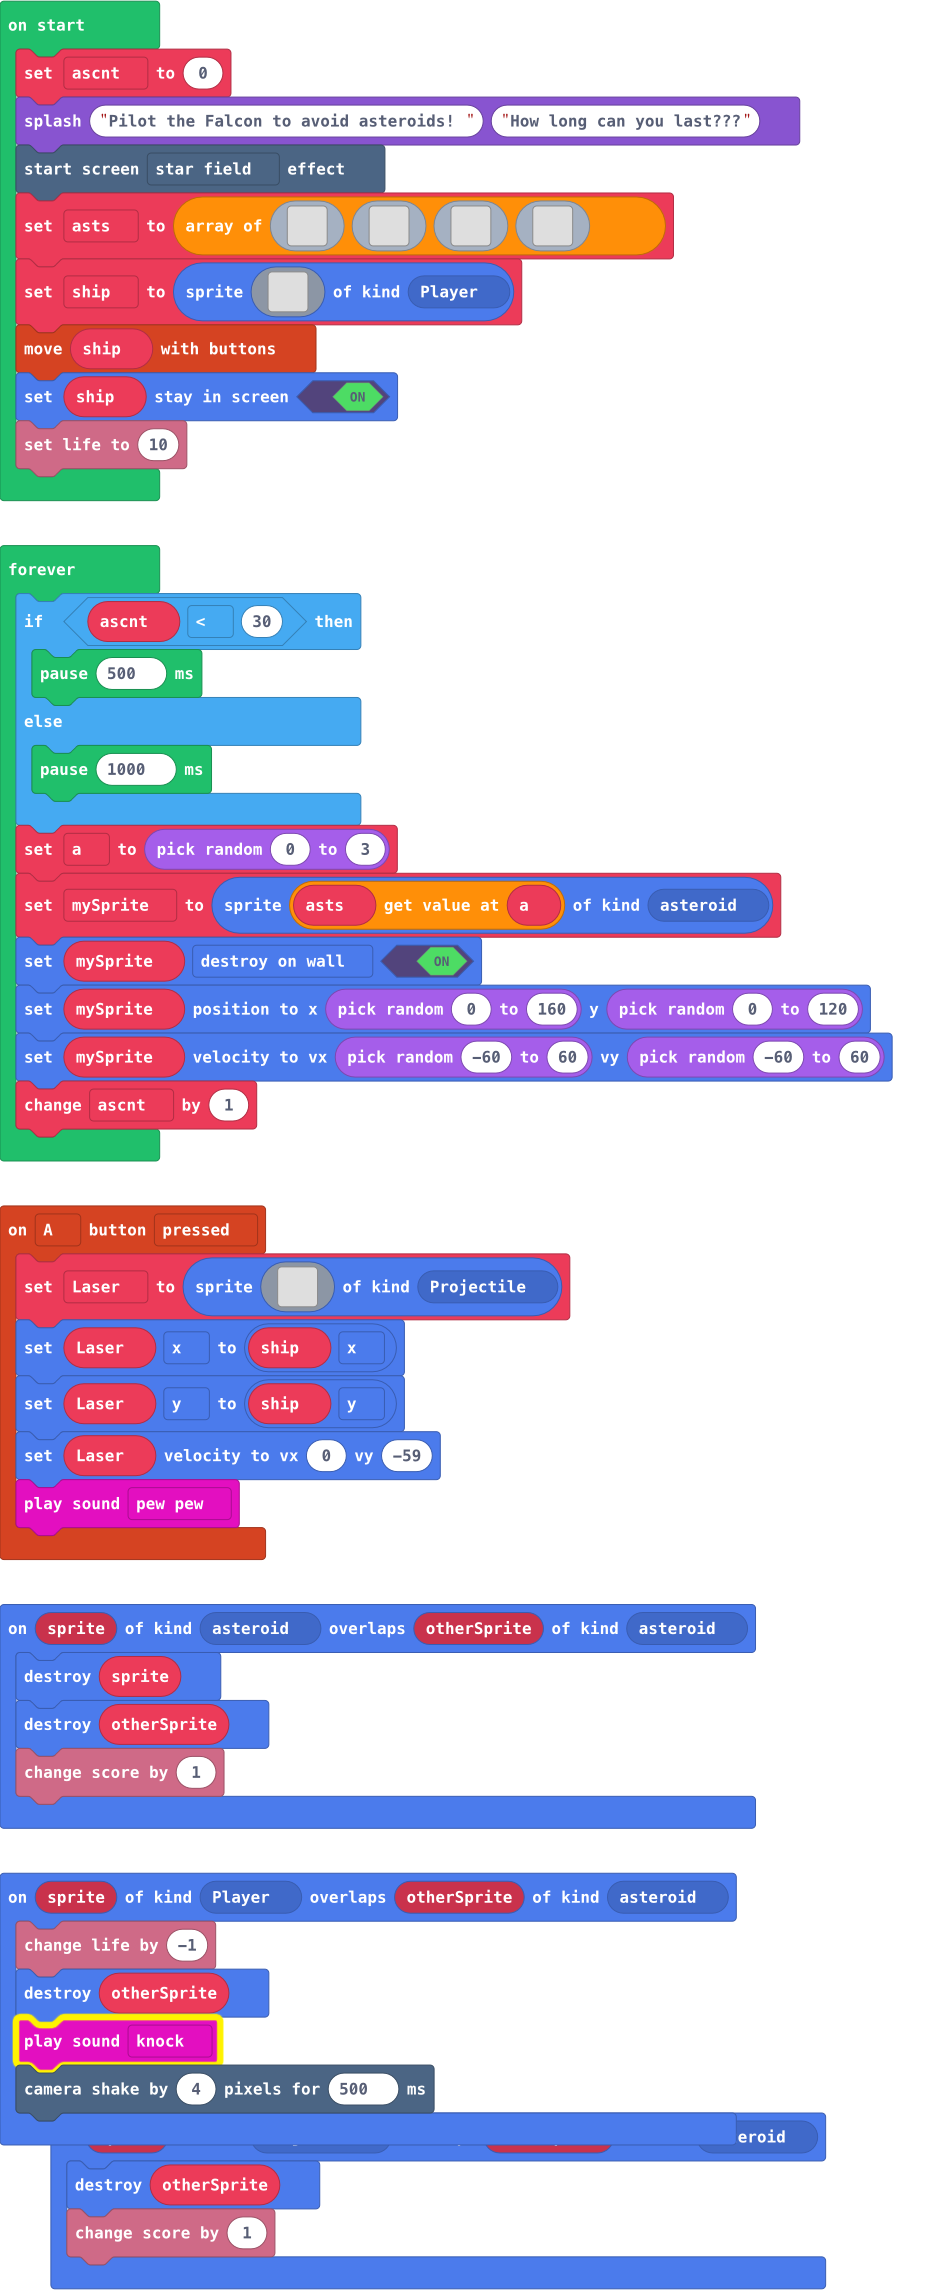
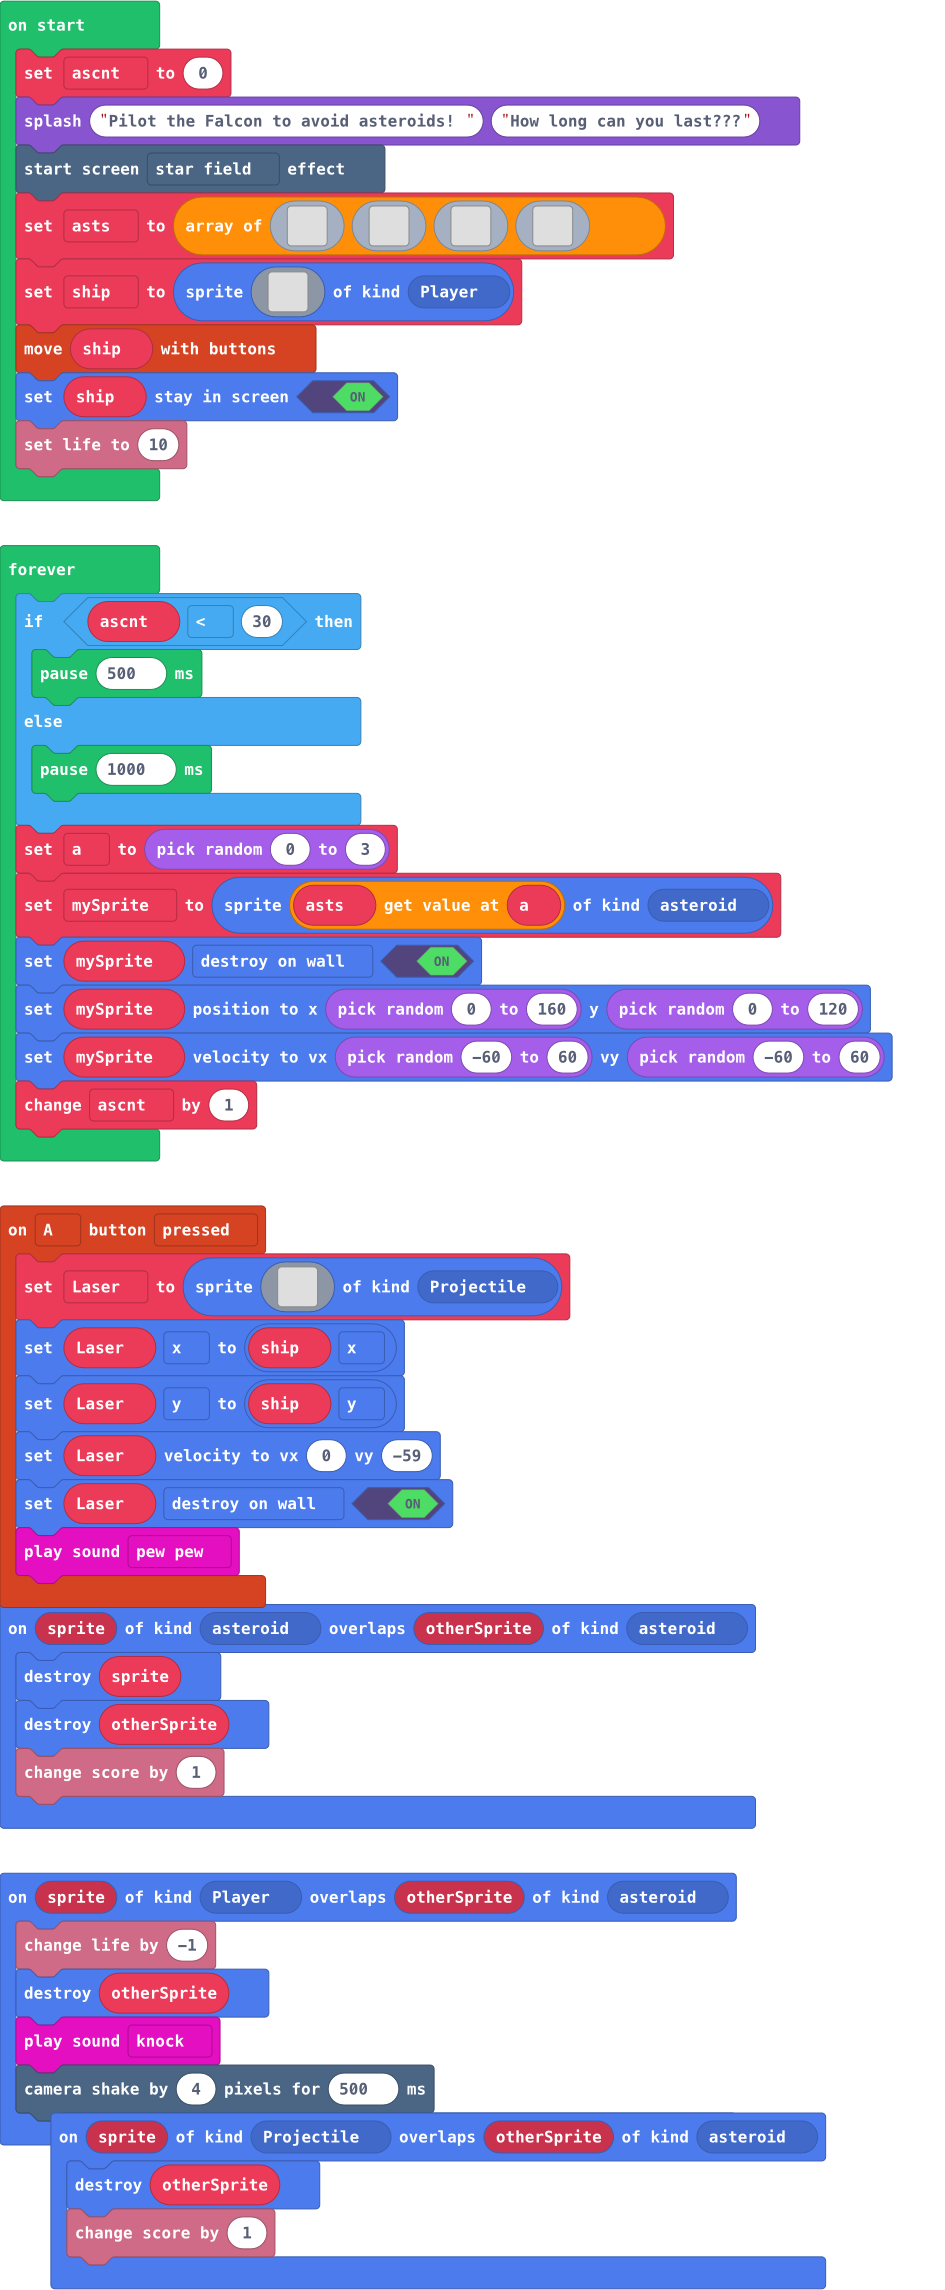
Update main.blocks, main.ts

diff --git a/main.ts b/main.ts
@@ -23,6 +23,7 @@ controller.A.onEvent(ControllerButtonEvent.Pressed, function () {
     Laser.x = ship.x
     Laser.y = ship.y
     Laser.setVelocity(0, -59)
+    Laser.setFlag(SpriteFlag.DestroyOnWall, true)
     music.pewPew.play()
 })
 sprites.onOverlap(SpriteKind.Player, SpriteKind.asteroid, function (sprite, otherSprite) {
